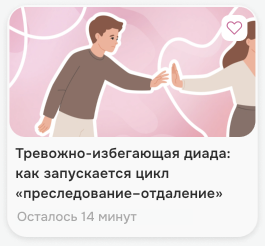
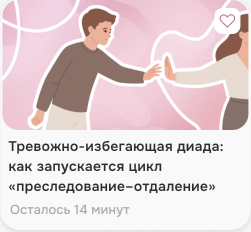
Fix course cards: crop Figma renders, round corners and shadow via CSS

Changed region(s): [[0.0, 0.0, 1.0, 0.9353], [0.6135, 0.1207, 0.8088, 0.2112]]

diff --git a/index.html b/index.html
@@ -155,17 +155,23 @@
     }
     .course-cards {
       position: absolute;
-      left: 2.05%;
-      top: 60.15%;
+      left: 3.64%;
+      top: 60.88%;
       right: 0;
       z-index: 3;
       display: flex;
-      gap: 1cqw;
+      gap: 2.59cqw;
       overflow: hidden;
     }
-    .course-cards img { display: block; height: auto; }
-    .course-cards .c1 { width: 60.23%; flex: none; }
-    .course-cards .c2 { width: 38.18%; flex: none; }
+    .course-cards img {
+      display: block;
+      height: auto;
+      flex: none;
+      border-radius: 3.45cqw;
+      box-shadow: 0 1px 2px rgba(12, 12, 13, .05);
+    }
+    .course-cards .c1 { width: 57.05%; }
+    .course-cards .c2 { width: 36.59%; border-radius: 3.45cqw 0 0 3.45cqw; } /* правый край уходит за экран */
     .fire-btn {
       position: absolute;
       left: 3.64%;
